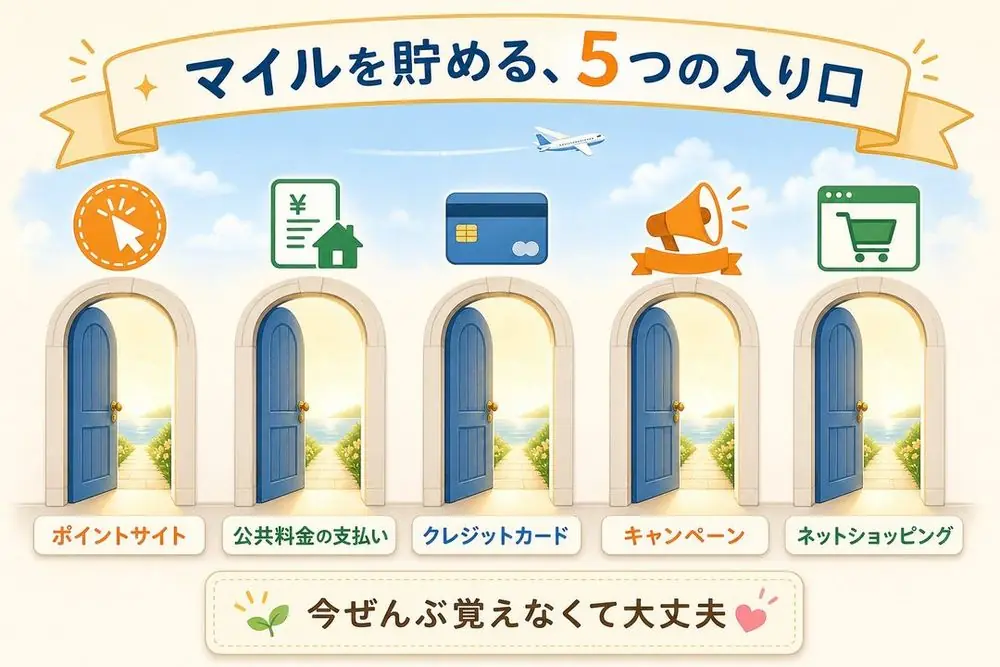
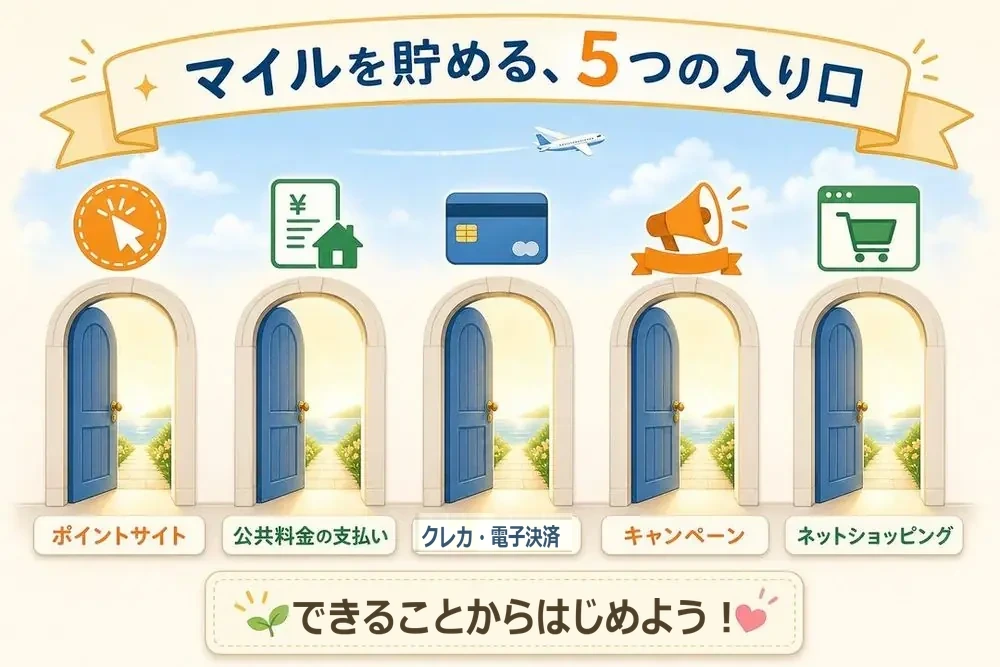
LP: ファーストビューを「検索意図に答える」構成へ作り直す
GA4計測で、訪問者31人中26人（84%）が1度もスクロールせずに離脱し、
上部CTAのクリックが67流入で0回であることが判明したため、
ファーストビューを本の表紙中心から作り直した。

- 見出しを「マイルの貯め方 5選」に変更（検索語句と一致させる）
- 最初の画像を book cover から「5つの入り口」の図解に差し替え、
  CTAを1画面目に収めた
- 全CTA（5箇所）を #entry のページ内リンクから LINE 友だち追加への
  直リンクに変更。これまで上部ボタンは押しても下へスクロールするだけだった
- 図解の文言を修正：クレジットカード→クレカ・電子決済、
  今ぜんぶ覚えなくて大丈夫→できることからはじめよう！
- 「このページで分かること」を数字入りの具体表現に
- ファーストビュー内に個人差の注記を追加（従来はマンガ部分にしかなく、
  離脱した84%には見えていなかった）
- 事業主・経営者向けの補足を STORY 05 の後に1段落だけ配置

QA Gate: 90/100 PASS（網羅性92／信頼性92／実用性86）

Changed region(s): [[0.279, 0.8996, 0.744, 0.9595], [0.403, 0.7496, 0.589, 0.8396]]

diff --git a/lp/mile-tabi/index.html b/lp/mile-tabi/index.html
@@ -41,11 +41,25 @@ img{display:block;max-width:100%;height:auto;}
 .kicker{display:block;width:fit-content;font-size:15px;font-weight:900;margin:0 auto 8px;
   background:#c0392b;color:#fff;padding:4px 20px;border-radius:4px;
   letter-spacing:.06em;box-shadow:0 3px 10px rgba(0,0,0,.28);}
-.fv h1{font-size:38px;font-weight:900;line-height:1.3;margin:0 0 12px;
+.fv h1 .big5{display:block;font-size:1.35em;line-height:1.1;margin-top:2px;
+  letter-spacing:.06em;}
+.fv h1{font-size:clamp(30px,9vw,40px);font-weight:900;line-height:1.28;margin:0 0 12px;
   letter-spacing:.02em;color:#ffd45e;
   text-shadow:0 2px 14px rgba(0,0,0,.42),0 0 1px rgba(0,0,0,.5);}
 .tagline{font-size:16px;font-weight:700;line-height:1.75;margin:0 0 14px;color:#fff;}
 .tagline b{color:#ffd45e;}
+.fvfig{width:100%;max-width:560px;margin:0 auto 18px;border-radius:12px;
+  box-shadow:0 14px 34px rgba(0,0,0,.38);}
+.fvbook{display:flex;align-items:center;gap:13px;justify-content:center;
+  max-width:430px;margin:20px auto 0;text-align:left;}
+.fvbook img{width:80px;flex:none;border-radius:5px;box-shadow:0 6px 16px rgba(0,0,0,.45);}
+.fvbook span{font-size:13px;line-height:1.65;color:#cfdcee;font-weight:700;}
+.fvbook b{color:#ffd45e;}
+.fvdisc{font-size:11px;line-height:1.6;color:#a9bcd4;margin:-4px 0 0;}
+.gates{font-size:11.5px;line-height:1.7;color:#bfd0e6;font-weight:700;
+  margin:-8px auto 16px;max-width:560px;letter-spacing:.01em;}
+.sidenote{font-size:13.5px;line-height:1.9;color:#6f675c;background:#fffdf8;
+  border-left:3px solid #d9c48a;border-radius:0 7px 7px 0;padding:12px 15px;margin:22px 0 6px;}
 .fvbenefit{font-size:13px;font-weight:700;color:#cfdcee;margin:20px 0 8px;}
 .benefits{list-style:none;padding:0;margin:0 0 4px;display:grid;
   grid-template-columns:1fr;gap:6px;text-align:left;}
@@ -169,6 +183,7 @@ hr.sep{border:0;border-top:1px dashed var(--line);margin:40px 0;}
 
 @media(min-width:600px){
   .fv h1{font-size:46px;}
+  .fvfig{max-width:640px;}
   .benefits{grid-template-columns:1fr 1fr;}
   /* 広い画面では横長ヒーローを幅いっぱいに */
   .fvcover{width:100%;max-width:none;border-radius:14px;
@@ -217,27 +232,31 @@ hr.sep{border:0;border-top:1px dashed var(--line);margin:40px 0;}
   <div class="wrap">
     <span class="eyebrow">マイル旅 未経験者＆初心者の方へ</span>
     <p class="kicker">マンガでわかる</p>
-    <h1>マイル旅のススメ</h1>
+    <h1>マイルの貯め方<br><span class="big5">5選</span></h1>
     <p class="tagline">
-      「いつか行きたい」で終わらせない、<br>
-      人生を<b>豊か</b>にする<b>旅のはじめ方</b>。
+      夢のマイル旅へ。<br>
+      <b>はじめの一歩</b>を踏み出そう！
     </p>
+    <img class="fvfig" src="images/fig_14.webp" width="1000" height="667"
+         alt="マイルを貯める5つの入り口：ポイントサイト・公共料金の支払い・クレカ/電子決済・キャンペーン・ネットショッピング">
+    <p class="gates">ポイントサイト／公共料金の支払い／クレカ・電子決済／キャンペーン／ネットショッピング</p>
+    <a class="cta" href="https://w5x3gyli.autosns.app/addfriend/s/RaTEDqnCcv/@793lofvx" target="_blank" rel="noopener"><svg class="ico" viewBox="0 0 24 24" aria-hidden="true"><path d="M12 2C6.5 2 2 5.6 2 10c0 3.9 3.5 7.2 8.2 7.9.3.1.8.2.9.5.1.3.1.7 0 1l-.1.9c0 .3-.2 1 .9.6 1.1-.5 5.9-3.5 8-6C21.3 13.2 22 11.7 22 10c0-4.4-4.5-8-10-8z"/></svg>LINEでマンガを受け取る
+      <span class="s">まず何から始めるかが分かる動画講座つき／登録30秒</span></a>
     <p class="sub">
       普通の会社員が、生活費はそのままで4か国へ。<br>
-      <strong>マイル旅のはじめの一歩</strong>を、マンガ33ページで公開しています。
+      <strong>その順番</strong>を、マンガ33ページで公開しています。
     </p>
-    <picture>
-      <source media="(min-width:600px)" srcset="images/hero.webp" width="1200" height="615">
-      <img class="fvcover" src="images/cover.webp" alt="マンガでわかる マイル旅のススメ" width="700" height="1119">
-    </picture>
-    <a class="cta" href="#entry"><svg class="ico" viewBox="0 0 24 24" aria-hidden="true"><path d="M12 2C6.5 2 2 5.6 2 10c0 3.9 3.5 7.2 8.2 7.9.3.1.8.2.9.5.1.3.1.7 0 1l-.1.9c0 .3-.2 1 .9.6 1.1-.5 5.9-3.5 8-6C21.3 13.2 22 11.7 22 10c0-4.4-4.5-8-10-8z"/></svg>LINEでマンガを受け取る
-      <span class="s">全33ページ＋無料動画講座つき／登録30秒</span></a>
-    <p class="fvbenefit">マイルを味方にすれば、</p>
+    <p class="fvdisc">※ 受講生の一例です。結果には個人差があり、期間をお約束するものではありません。</p>
+    <div class="fvbook">
+      <img src="images/cover.webp" width="700" height="1119" alt="マンガ「マイル旅のススメ」表紙">
+      <span>マンガ<b>『マイル旅のススメ』</b><br>全33ページを、LINEで無料でお渡しします。</span>
+    </div>
+    <p class="fvbenefit">このページで分かること</p>
     <ul class="benefits">
-      <li>憧れの旅行が、ぐっと<b>近づく</b></li>
-      <li>お金の不安を、<b>ワクワク</b>に</li>
-      <li>普通の会社員でも、<b>始められる</b></li>
-      <li>ホテルの特典も、もっと<b>自由</b>に</li>
+      <li>5つのうち、<b>最初にやる1つ</b></li>
+      <li>貯めたマイルを<b>特典航空券</b>に変えるまで</li>
+      <li><b>年会費4万円</b>は高いのか、安いのか</li>
+      <li><b>家族4人ぶん</b>の座席のそろえ方</li>
     </ul>
     <p class="fvnote">※ 続きは、このページでもそのまま読めます</p>
   </div>
@@ -326,7 +345,7 @@ hr.sep{border:0;border-top:1px dashed var(--line);margin:40px 0;}
     <span class="free">無料</span>
     <h3>その「道」のつくり方は、<br>マンガの続きと動画で。</h3>
     <p>マンガ本編まるごと＋動画講座を、LINEでお渡ししています</p>
-    <a class="cta" href="#entry"><svg class="ico" viewBox="0 0 24 24" aria-hidden="true"><path d="M12 2C6.5 2 2 5.6 2 10c0 3.9 3.5 7.2 8.2 7.9.3.1.8.2.9.5.1.3.1.7 0 1l-.1.9c0 .3-.2 1 .9.6 1.1-.5 5.9-3.5 8-6C21.3 13.2 22 11.7 22 10c0-4.4-4.5-8-10-8z"/></svg>LINEでマンガを受け取る
+    <a class="cta" href="https://w5x3gyli.autosns.app/addfriend/s/RaTEDqnCcv/@793lofvx" target="_blank" rel="noopener"><svg class="ico" viewBox="0 0 24 24" aria-hidden="true"><path d="M12 2C6.5 2 2 5.6 2 10c0 3.9 3.5 7.2 8.2 7.9.3.1.8.2.9.5.1.3.1.7 0 1l-.1.9c0 .3-.2 1 .9.6 1.1-.5 5.9-3.5 8-6C21.3 13.2 22 11.7 22 10c0-4.4-4.5-8-10-8z"/></svg>LINEでマンガを受け取る
       <span class="s">登録30秒／いつでもブロックできます</span></a>
   </div>
 </div>
@@ -413,7 +432,7 @@ hr.sep{border:0;border-top:1px dashed var(--line);margin:40px 0;}
       <img loading="lazy" src="images/photo_09.webp" alt="ホテルのアフタヌーンティー" width="1000" height="1250">
     </div>
     <figcaption>左から、<b>空港ラウンジ</b>／<b>憧れのホテル</b>／<b>特別な日のレストラン</b>。<br>
-      年に<b>4万円弱</b>の年会費が連れてくるもの。<br>「消えていく出費」ではなく、投資でした。</figcaption>
+      年に<b>4万円弱</b>の年会費が連れてくるもの。<br>「消えていく出費」ではなく、わが家にとっては投資でした。</figcaption>
   </figure>
 </div>
 
@@ -423,7 +442,7 @@ hr.sep{border:0;border-top:1px dashed var(--line);margin:40px 0;}
     <span class="free">無料</span>
     <h3>「で、自分は何から始めれば?」<br>その答えもお渡しします。</h3>
     <p>あなたに合うカードと、最初の1歩がわかります</p>
-    <a class="cta" href="#entry"><svg class="ico" viewBox="0 0 24 24" aria-hidden="true"><path d="M12 2C6.5 2 2 5.6 2 10c0 3.9 3.5 7.2 8.2 7.9.3.1.8.2.9.5.1.3.1.7 0 1l-.1.9c0 .3-.2 1 .9.6 1.1-.5 5.9-3.5 8-6C21.3 13.2 22 11.7 22 10c0-4.4-4.5-8-10-8z"/></svg>LINEでマンガを受け取る
+    <a class="cta" href="https://w5x3gyli.autosns.app/addfriend/s/RaTEDqnCcv/@793lofvx" target="_blank" rel="noopener"><svg class="ico" viewBox="0 0 24 24" aria-hidden="true"><path d="M12 2C6.5 2 2 5.6 2 10c0 3.9 3.5 7.2 8.2 7.9.3.1.8.2.9.5.1.3.1.7 0 1l-.1.9c0 .3-.2 1 .9.6 1.1-.5 5.9-3.5 8-6C21.3 13.2 22 11.7 22 10c0-4.4-4.5-8-10-8z"/></svg>LINEでマンガを受け取る
       <span class="s">登録30秒／費用は一切かかりません</span></a>
   </div>
 </div>
@@ -450,10 +469,14 @@ hr.sep{border:0;border-top:1px dashed var(--line);margin:40px 0;}
 
 <div class="wrap sec">
   <div class="figs">
-    <img loading="lazy" src="images/fig_14.webp" alt="マイルを貯める、5つの入り口：ポイントサイト・公共料金の支払い・クレジットカード・キャンペーン・ネットショッピング。今ぜんぶ覚えなくて大丈夫" width="1000" height="667">
+    <img loading="lazy" src="images/fig_14.webp" alt="マイルを貯める、5つの入り口：ポイントサイト・公共料金の支払い・クレカ/電子決済・キャンペーン・ネットショッピング。今ぜんぶ覚えなくて大丈夫" width="1000" height="667">
     <img loading="lazy" src="images/fig_15.webp" alt="まずは「1つ」だけ。当たり前になる→次の1つを足す→がんばらなくても貯まっていく" width="1000" height="667">
     <img loading="lazy" src="images/fig_17.webp" alt="変わったのは、収入ではなかった。「自分には無理」という思い込みを手放し、まずひとつだけと一歩踏み出した" width="1000" height="667">
   </div>
+
+  <p class="sidenote">なお、事業をされている方は、仕入れ・外注費・納税といった大きな支払いがあるぶん、
+  同じ入り口でも動く金額が変わります。カードの入会特典にある決済条件も、無理なく満たせることが多いはずです。
+  （私自身も経営者です）</p>
 
   <p class="shotlead">そして、あの日の景色へ。</p>
   <figure class="shot">
@@ -509,7 +532,7 @@ hr.sep{border:0;border-top:1px dashed var(--line);margin:40px 0;}
     <li data-n="1"><b>「貯め方」より先に決めること</b>
       同じ1マイルの価値が何十倍にも変わる、使い道の設計から始めます。</li>
     <li data-n="2"><b>マイルが貯まる5つの入り口</b>
-      ポイントサイト／公共料金／クレジットカード／キャンペーン／ネットショッピング。あなたが最初に手をつけるべき1つがわかります。</li>
+      ポイントサイト／公共料金／クレカ・電子決済／キャンペーン／ネットショッピング。あなたが最初に手をつけるべき1つがわかります。</li>
     <li data-n="3"><b>年会費のほんとうの考え方</b>
       「高い＝損」ではありません。年会費が連れてくるものを金額で見える化します。</li>
     <li data-n="4"><b>あなたに合うカードの選び方</b>
@@ -575,7 +598,7 @@ hr.sep{border:0;border-top:1px dashed var(--line);margin:40px 0;}
 <!-- ============ sticky CTA ============ -->
 <div class="sticky">
   <div class="inner">
-    <a class="cta" href="#entry"><svg class="ico" viewBox="0 0 24 24" aria-hidden="true"><path d="M12 2C6.5 2 2 5.6 2 10c0 3.9 3.5 7.2 8.2 7.9.3.1.8.2.9.5.1.3.1.7 0 1l-.1.9c0 .3-.2 1 .9.6 1.1-.5 5.9-3.5 8-6C21.3 13.2 22 11.7 22 10c0-4.4-4.5-8-10-8z"/></svg>LINEでマンガを受け取る
+    <a class="cta" href="https://w5x3gyli.autosns.app/addfriend/s/RaTEDqnCcv/@793lofvx" target="_blank" rel="noopener"><svg class="ico" viewBox="0 0 24 24" aria-hidden="true"><path d="M12 2C6.5 2 2 5.6 2 10c0 3.9 3.5 7.2 8.2 7.9.3.1.8.2.9.5.1.3.1.7 0 1l-.1.9c0 .3-.2 1 .9.6 1.1-.5 5.9-3.5 8-6C21.3 13.2 22 11.7 22 10c0-4.4-4.5-8-10-8z"/></svg>LINEでマンガを受け取る
       <span class="s">登録30秒／完全無料</span></a>
   </div>
 </div>
